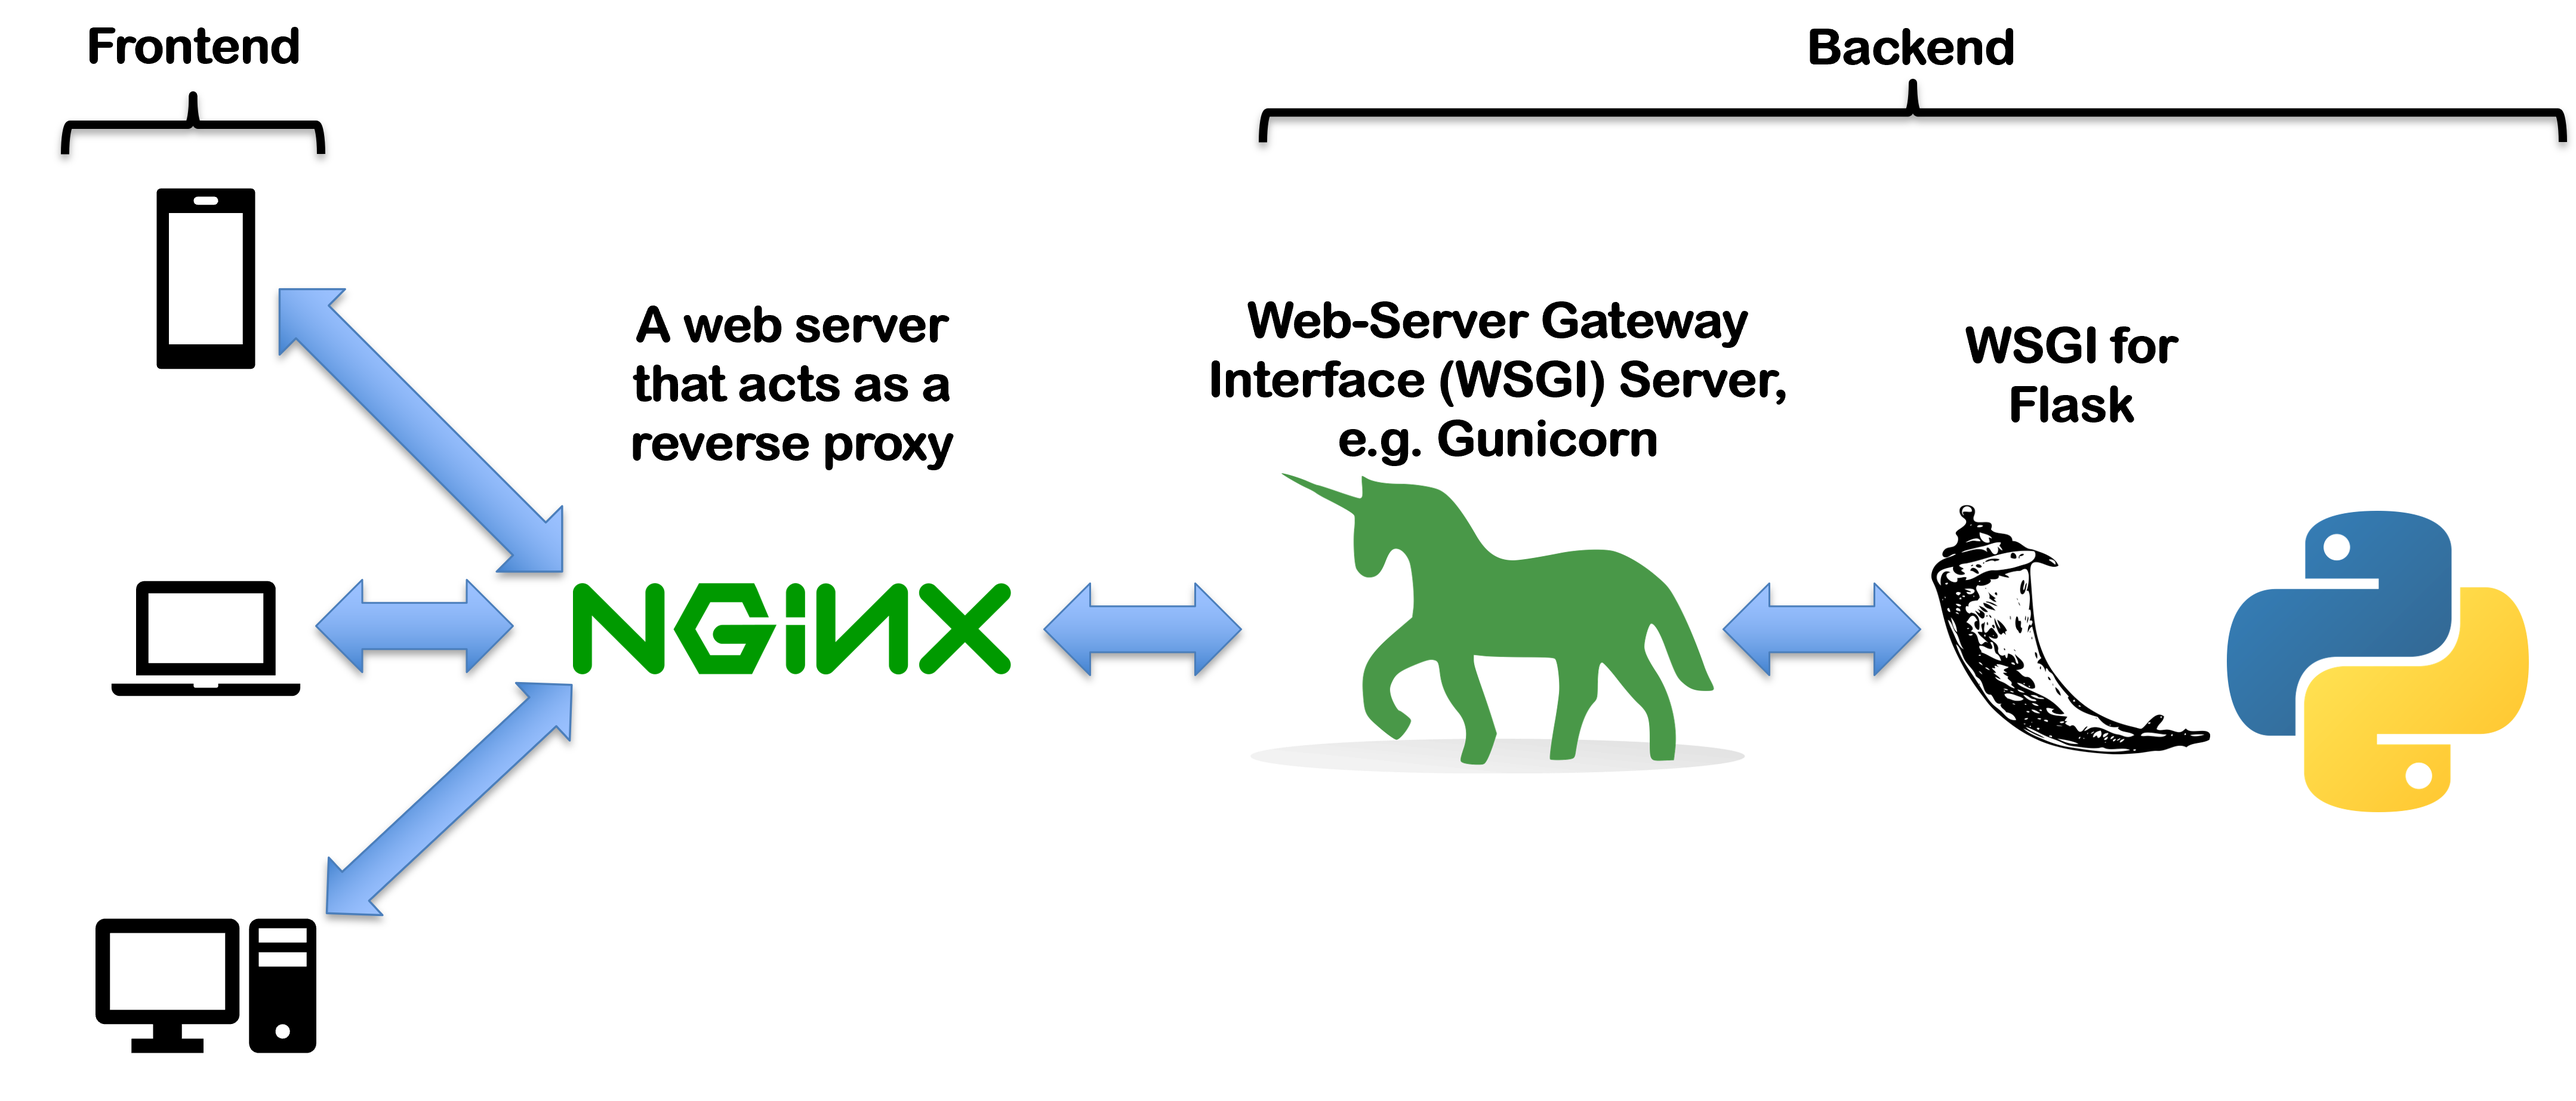
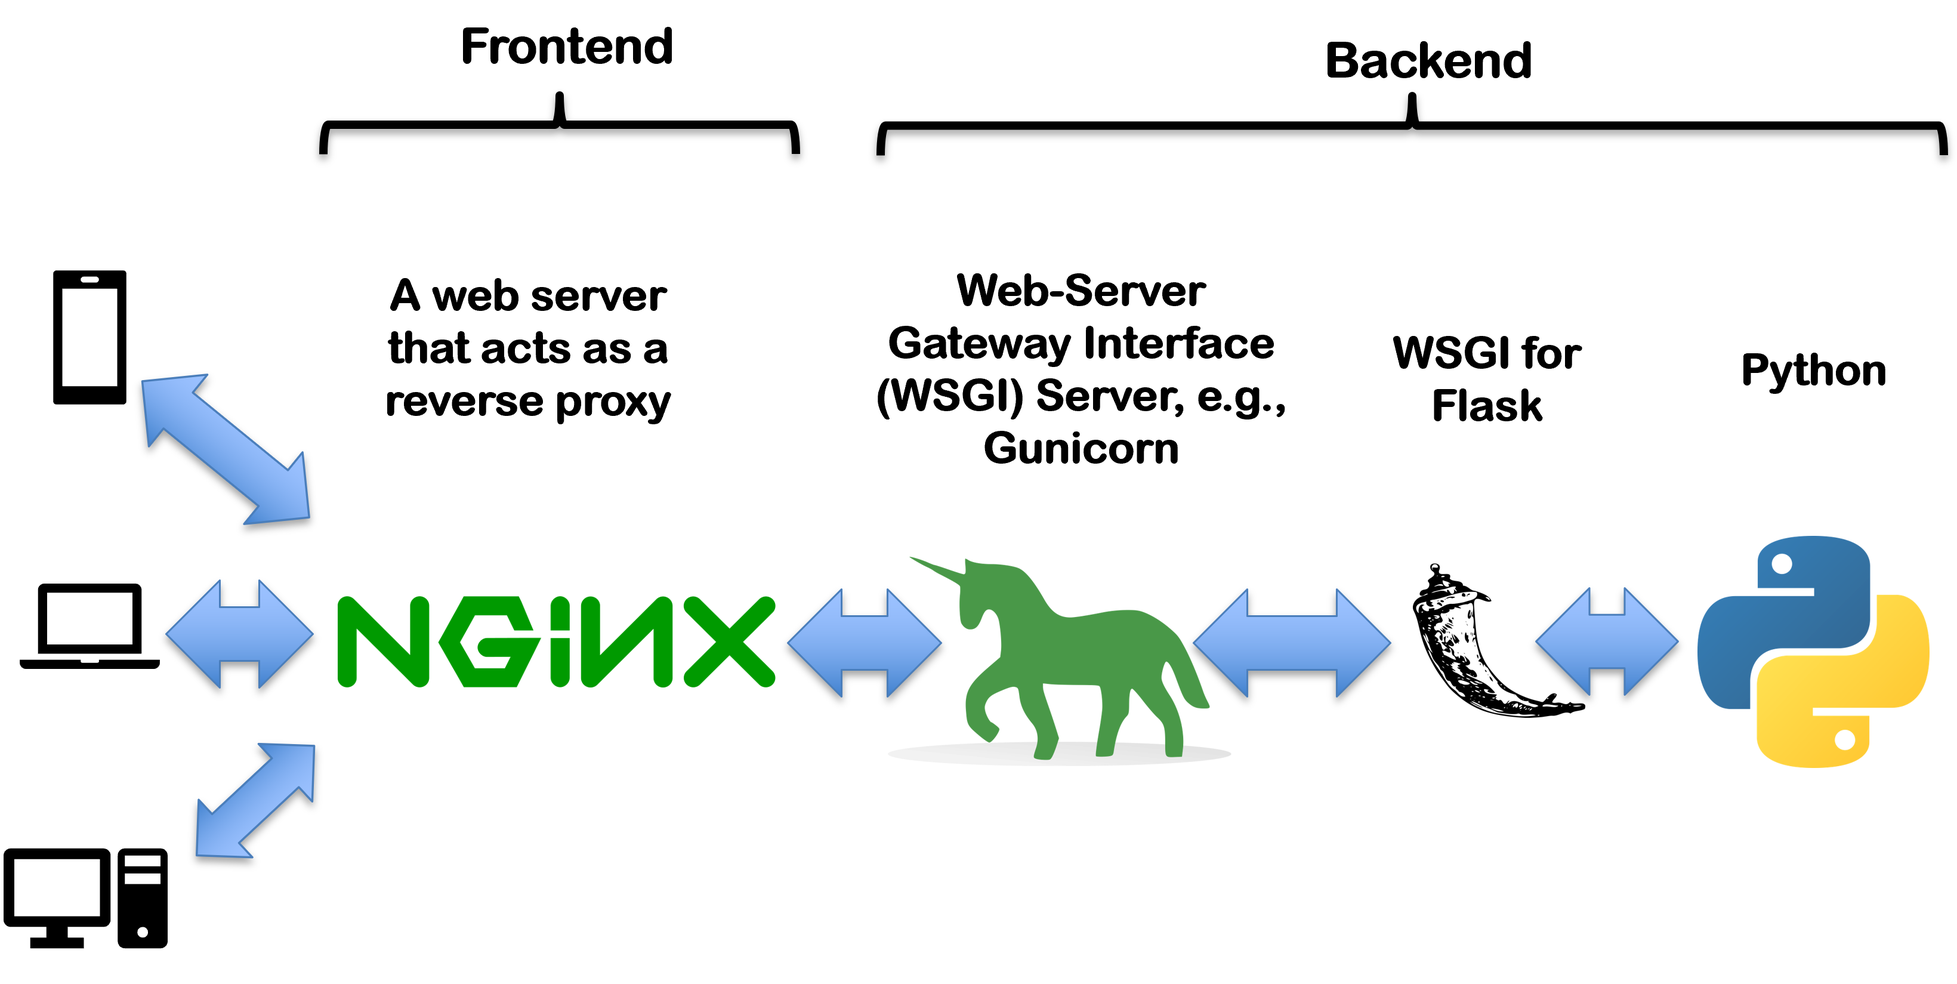
Added better image for dark mode

diff --git a/frontend/index.html b/frontend/index.html
@@ -48,7 +48,7 @@
     </table>
 
     <h2>Request Flow</h2>
-    <img src="RequestFlow.png" alt="Request Flow Diagram" style="display:block; background:#fff; padding:16px; border:1px solid #ccc; max-width:60%; margin-bottom:24px;">
+    <img src="RequestFlow.jpg" alt="Request Flow Diagram" style="display:block; background:#fff; padding:16px; border:1px solid #ccc; max-width:60%; margin-bottom:24px;">
     <ol style="line-height:1.7;">
         <li>
             <strong>Client</strong> (Postman / cURL / frontend: web, mobile, desktop)<br>
@@ -89,8 +89,8 @@
     <h2>List of API Endpoints</h2>
 
     <ul>
-        <li>Decision Tree Classifier: <a href="/api/predict_decision_tree_classifier">/api/predict_decision_tree_classifier</a> (POST) - sample HTML page: <a href="api_test_DT_classifier.html">api_test_DT_classifier.html</a></li>
-        <li>Decision Tree Regressor: <a href="/api/predict_decision_tree_regressor">/api/predict_decision_tree_regressor</a> (POST) - sample HTML page: <a href="api_test_DT_regressor.html">api_test_DT_regressor.html</a></li>
+        <li>Decision Tree Classifier API endpoint (POST): <strong>/api/predict_decision_tree_classifier</strong> - sample HTML page: <a href="api_test_DT_classifier.html" target="_blank">api_test_DT_classifier.html</a></li>
+        <li>Decision Tree Regressor API endpoint (POST): <strong>/api/predict_decision_tree_regressor</strong> - sample HTML page: <a href="api_test_DT_regressor.html" target="_blank">api_test_DT_regressor.html</a></li>
     </ul>
 </body>
 </html>
